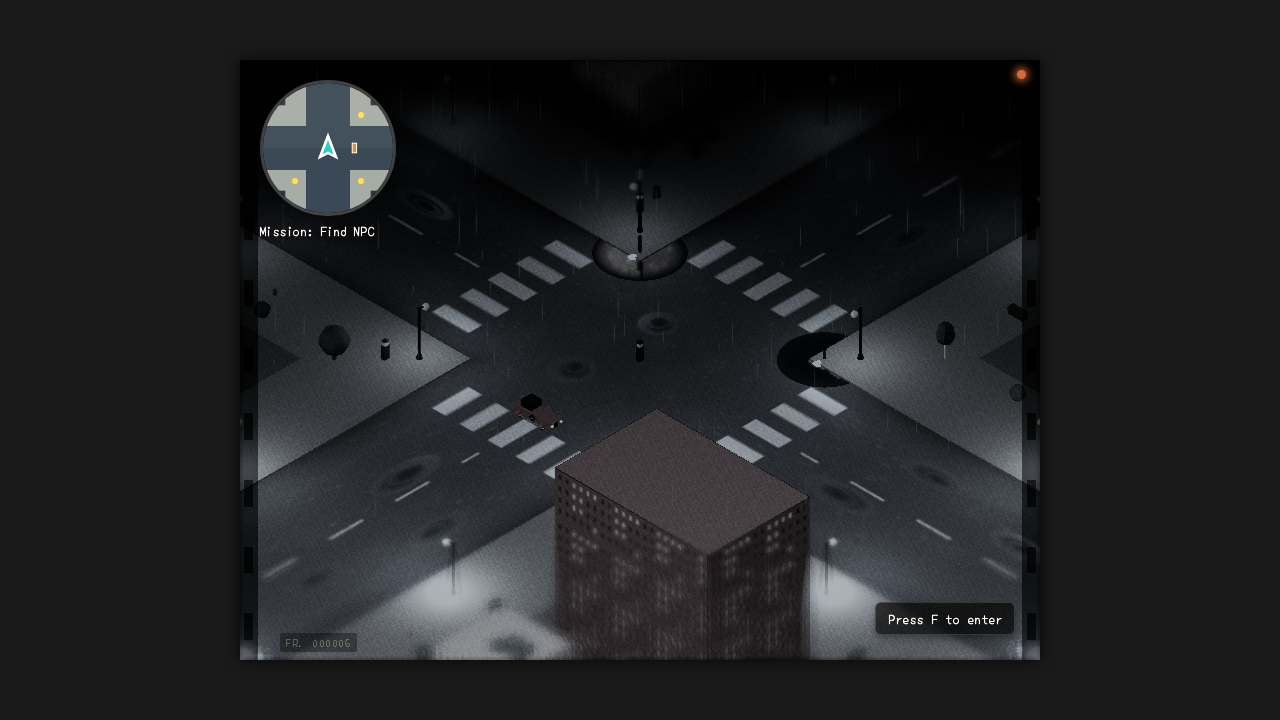
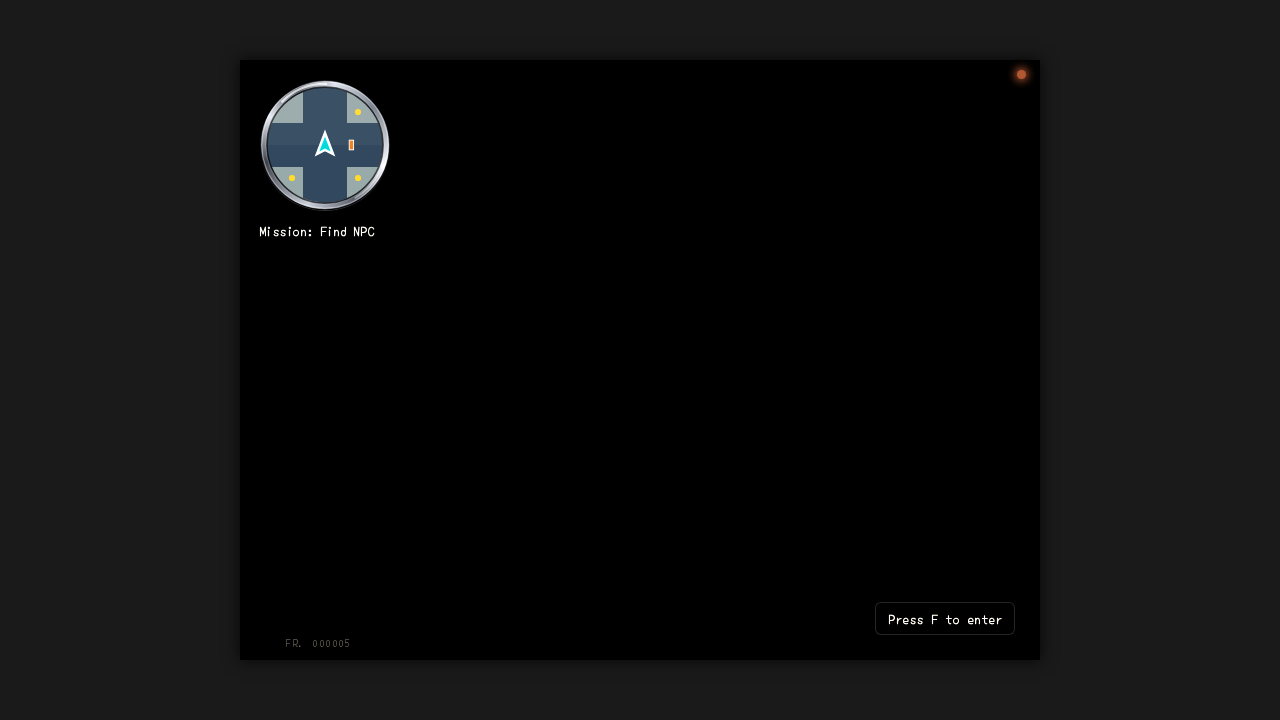
feat: update minimap design and functionality
- Refactored minimap canvas in index.html for improved structure.
- Enhanced CSS styles for the minimap to include a new bezel and shadow effects.
- Updated FilmGateOverlay to maintain visual integrity of the minimap under retro film effects.
- Implemented clipping and drawing functions for the minimap in HUD.js to prevent tile bleed and improve aesthetics.
- Adjusted tests to accommodate new minimap features and ensure functionality.

diff --git a/src/ui/MinimapBezel.js b/src/ui/MinimapBezel.js
@@ -1,0 +1,188 @@
+/**
+ * Metallic minimap bezel + convex glass lens overlay (ref look), not a 3D mesh.
+ */
+
+/** Ring thickness in canvas px (130×130 minimap). */
+export const MINIMAP_BEZEL_WIDTH = 7;
+
+/**
+ * Inner radius available for map content.
+ * @param {number} width
+ * @param {number} height
+ */
+export function minimapContentRadius(width, height) {
+    return Math.min(width, height) / 2 - MINIMAP_BEZEL_WIDTH;
+}
+
+/**
+ * Clip subsequent draws to the circular map disc (inside the bezel).
+ * @param {CanvasRenderingContext2D} ctx
+ * @param {number} cx
+ * @param {number} cy
+ * @param {number} width
+ * @param {number} height
+ */
+export function clipMinimapContent(ctx, cx, cy, width, height) {
+    const r = minimapContentRadius(width, height);
+    ctx.beginPath();
+    ctx.arc(cx, cy, r, 0, Math.PI * 2);
+    ctx.clip();
+}
+
+/**
+ * Convex glass lens over the map disc: cool tint, vignette, specular crescent.
+ * Call after map content, before the metal bezel.
+ * @param {CanvasRenderingContext2D} ctx
+ * @param {number} width
+ * @param {number} height
+ */
+export function drawMinimapGlass(ctx, width, height) {
+    const cx = width / 2;
+    const cy = height / 2;
+    const r = minimapContentRadius(width, height);
+    if (r <= 0) return;
+
+    ctx.save();
+    ctx.beginPath();
+    ctx.arc(cx, cy, r, 0, Math.PI * 2);
+    ctx.clip();
+
+    // Cool glass wash (mutes the map like looking through a lens)
+    ctx.fillStyle = 'rgba(155, 180, 205, 0.14)';
+    ctx.beginPath();
+    ctx.arc(cx, cy, r, 0, Math.PI * 2);
+    ctx.fill();
+
+    // Recessed depth — darker toward the rim / bottom
+    if (typeof ctx.createRadialGradient === 'function') {
+        const vig = ctx.createRadialGradient(cx, cy - r * 0.12, r * 0.18, cx, cy + r * 0.08, r);
+        vig.addColorStop(0, 'rgba(0, 0, 0, 0)');
+        vig.addColorStop(0.55, 'rgba(0, 0, 0, 0.04)');
+        vig.addColorStop(0.82, 'rgba(0, 0, 0, 0.18)');
+        vig.addColorStop(1, 'rgba(0, 0, 0, 0.38)');
+        ctx.fillStyle = vig;
+        ctx.beginPath();
+        ctx.arc(cx, cy, r, 0, Math.PI * 2);
+        ctx.fill();
+    }
+
+    // Convex specular crescent (top-left light catch)
+    if (typeof ctx.createRadialGradient === 'function') {
+        const gx = cx - r * 0.38;
+        const gy = cy - r * 0.48;
+        const gloss = ctx.createRadialGradient(gx, gy, 0, gx, gy, r * 0.95);
+        gloss.addColorStop(0, 'rgba(255, 255, 255, 0.42)');
+        gloss.addColorStop(0.28, 'rgba(255, 255, 255, 0.14)');
+        gloss.addColorStop(0.55, 'rgba(255, 255, 255, 0.03)');
+        gloss.addColorStop(1, 'rgba(255, 255, 255, 0)');
+        ctx.fillStyle = gloss;
+        ctx.beginPath();
+        ctx.arc(cx, cy, r, 0, Math.PI * 2);
+        ctx.fill();
+    } else {
+        ctx.fillStyle = 'rgba(255, 255, 255, 0.12)';
+        ctx.beginPath();
+        ctx.arc(cx, cy, r, Math.PI * 1.05, Math.PI * 1.85, false);
+        ctx.lineTo(cx, cy);
+        ctx.closePath();
+        ctx.fill();
+    }
+
+    // Thin inner rim highlight (glass edge under the metal)
+    ctx.beginPath();
+    ctx.arc(cx, cy, r - 1.25, 0, Math.PI * 2);
+    ctx.strokeStyle = 'rgba(220, 230, 240, 0.28)';
+    ctx.lineWidth = 1.25;
+    ctx.stroke();
+
+    ctx.beginPath();
+    ctx.arc(cx, cy, r - 0.5, 0, Math.PI * 2);
+    ctx.strokeStyle = 'rgba(0, 0, 0, 0.35)';
+    ctx.lineWidth = 1.5;
+    ctx.stroke();
+
+    ctx.restore();
+}
+
+/**
+ * Draw a brushed-metal annular ring with specular glints.
+ * @param {CanvasRenderingContext2D} ctx
+ * @param {number} width
+ * @param {number} height
+ */
+export function drawMinimapBezel(ctx, width, height) {
+    const cx = width / 2;
+    const cy = height / 2;
+    const rOuter = Math.min(width, height) / 2 - 0.5;
+    const rInner = rOuter - MINIMAP_BEZEL_WIDTH;
+    if (rInner <= 0) return;
+
+    ctx.save();
+
+    // Metal band (conic = rotating highlight like chrome)
+    ctx.beginPath();
+    ctx.arc(cx, cy, rOuter, 0, Math.PI * 2);
+    ctx.arc(cx, cy, rInner, 0, Math.PI * 2, true);
+
+    if (typeof ctx.createConicGradient === 'function') {
+        const metal = ctx.createConicGradient(-Math.PI * 0.65, cx, cy);
+        metal.addColorStop(0, '#4a4e56');
+        metal.addColorStop(0.1, '#d8dde6');
+        metal.addColorStop(0.22, '#7a808a');
+        metal.addColorStop(0.38, '#f2f4f8');
+        metal.addColorStop(0.5, '#5c616a');
+        metal.addColorStop(0.62, '#c4c9d2');
+        metal.addColorStop(0.78, '#3e424a');
+        metal.addColorStop(0.9, '#e0e4ec');
+        metal.addColorStop(1, '#4a4e56');
+        ctx.fillStyle = metal;
+    } else {
+        ctx.fillStyle = '#9aa0aa';
+    }
+    ctx.fill();
+
+    // Outer rim shadow
+    ctx.beginPath();
+    ctx.arc(cx, cy, rOuter, 0, Math.PI * 2);
+    ctx.strokeStyle = 'rgba(0, 0, 0, 0.55)';
+    ctx.lineWidth = 1.25;
+    ctx.stroke();
+
+    // Outer specular lip
+    ctx.beginPath();
+    ctx.arc(cx, cy, rOuter - 1.25, 0, Math.PI * 2);
+    ctx.strokeStyle = 'rgba(255, 255, 255, 0.4)';
+    ctx.lineWidth = 1;
+    ctx.stroke();
+
+    // Inner dark channel (separates metal from map)
+    ctx.beginPath();
+    ctx.arc(cx, cy, rInner + 0.5, 0, Math.PI * 2);
+    ctx.strokeStyle = 'rgba(0, 0, 0, 0.7)';
+    ctx.lineWidth = 1.75;
+    ctx.stroke();
+
+    // Inner cool highlight
+    ctx.beginPath();
+    ctx.arc(cx, cy, rInner + 1.75, 0, Math.PI * 2);
+    ctx.strokeStyle = 'rgba(200, 210, 225, 0.35)';
+    ctx.lineWidth = 1;
+    ctx.stroke();
+
+    // Bright chrome glints
+    const midR = (rOuter + rInner) / 2;
+    ctx.lineCap = 'round';
+    ctx.strokeStyle = 'rgba(255, 255, 255, 0.7)';
+    ctx.lineWidth = 2.25;
+    ctx.beginPath();
+    ctx.arc(cx, cy, midR, -2.35, -1.55);
+    ctx.stroke();
+
+    ctx.strokeStyle = 'rgba(255, 255, 255, 0.35)';
+    ctx.lineWidth = 1.5;
+    ctx.beginPath();
+    ctx.arc(cx, cy, midR, 0.45, 1.05);
+    ctx.stroke();
+
+    ctx.restore();
+}

diff --git a/src/ui/MinimapBezel.test.js b/src/ui/MinimapBezel.test.js
@@ -1,0 +1,76 @@
+import { describe, it, expect, vi } from 'vitest';
+import {
+    MINIMAP_BEZEL_WIDTH,
+    minimapContentRadius,
+    clipMinimapContent,
+    drawMinimapBezel,
+    drawMinimapGlass
+} from './MinimapBezel.js';
+
+function mockCtx() {
+    const grad = { addColorStop: vi.fn() };
+    return {
+        save: vi.fn(),
+        restore: vi.fn(),
+        beginPath: vi.fn(),
+        arc: vi.fn(),
+        clip: vi.fn(),
+        fill: vi.fn(),
+        stroke: vi.fn(),
+        lineTo: vi.fn(),
+        closePath: vi.fn(),
+        createConicGradient: vi.fn(() => grad),
+        createRadialGradient: vi.fn(() => grad),
+        fillStyle: '',
+        strokeStyle: '',
+        lineWidth: 0,
+        lineCap: 'butt',
+        _grad: grad
+    };
+}
+
+describe('MinimapBezel', () => {
+    it('reserves a metal ring outside the content disc', () => {
+        expect(MINIMAP_BEZEL_WIDTH).toBeGreaterThanOrEqual(6);
+        expect(minimapContentRadius(130, 130)).toBe(65 - MINIMAP_BEZEL_WIDTH);
+    });
+
+    it('clips map content to the inner disc', () => {
+        const ctx = mockCtx();
+        clipMinimapContent(ctx, 65, 65, 130, 130);
+        expect(ctx.beginPath).toHaveBeenCalled();
+        expect(ctx.arc).toHaveBeenCalledWith(65, 65, 65 - MINIMAP_BEZEL_WIDTH, 0, Math.PI * 2);
+        expect(ctx.clip).toHaveBeenCalled();
+    });
+
+    it('paints a conic metal ring with specular strokes', () => {
+        const ctx = mockCtx();
+        drawMinimapBezel(ctx, 130, 130);
+        expect(ctx.createConicGradient).toHaveBeenCalled();
+        expect(ctx._grad.addColorStop).toHaveBeenCalled();
+        expect(ctx.fill).toHaveBeenCalled();
+        expect(ctx.stroke.mock.calls.length).toBeGreaterThanOrEqual(4);
+        expect(ctx.save).toHaveBeenCalled();
+        expect(ctx.restore).toHaveBeenCalled();
+    });
+
+    it('falls back when createConicGradient is missing', () => {
+        const ctx = mockCtx();
+        delete ctx.createConicGradient;
+        drawMinimapBezel(ctx, 130, 130);
+        expect(ctx.fillStyle).toBe('#9aa0aa');
+        expect(ctx.fill).toHaveBeenCalled();
+    });
+
+    it('draws a glass lens: tint, vignette, and specular crescent', () => {
+        const ctx = mockCtx();
+        drawMinimapGlass(ctx, 130, 130);
+        expect(ctx.clip).toHaveBeenCalled();
+        expect(ctx.createRadialGradient).toHaveBeenCalled();
+        expect(ctx._grad.addColorStop).toHaveBeenCalled();
+        expect(ctx.fill.mock.calls.length).toBeGreaterThanOrEqual(3);
+        expect(ctx.stroke.mock.calls.length).toBeGreaterThanOrEqual(2);
+        expect(ctx.save).toHaveBeenCalled();
+        expect(ctx.restore).toHaveBeenCalled();
+    });
+});

diff --git a/src/ui/HUD.js b/src/ui/HUD.js
@@ -10,6 +10,7 @@ import { Tilemap, TILE_COLORS } from '../world/Tilemap.js';
 import { VehicleSystem } from '../systems/VehicleSystem.js';
 import { UISettings } from './UISettings.js';
 import { I18n } from '../i18n/I18n.js';
+import { clipMinimapContent, drawMinimapBezel, drawMinimapGlass } from './MinimapBezel.js';
 
 /** Minimap: top 20 + 130 + border ≈ 156 → mission text sits below map */
 const MISSION_TOP_PX = 162;
@@ -201,6 +202,10 @@ export const UISystem = {
 
         ctx.clearRect(0, 0, width, height);
 
+        // Map disc (clipped so tiles don't bleed under the metal ring)
+        ctx.save();
+        clipMinimapContent(ctx, cx, cy, width, height);
+
         ctx.save();
         ctx.translate(cx, cy);
         ctx.rotate(-pAngle - Math.PI / 2);
@@ -275,10 +280,9 @@ export const UISystem = {
         ctx.fill();
         ctx.stroke();
 
-        ctx.fillStyle = 'rgba(255, 255, 255, 0.04)';
-        ctx.beginPath();
-        ctx.arc(cx, cy, 65, 0, Math.PI, true);
-        ctx.closePath();
-        ctx.fill();
+        ctx.restore(); // end content clip
+
+        drawMinimapGlass(ctx, width, height);
+        drawMinimapBezel(ctx, width, height);
     }
 };

diff --git a/src/index.html b/src/index.html
@@ -23,7 +23,7 @@
         <canvas id="gameCanvas" width="800" height="600"></canvas>
         <canvas id="gameCanvas3D" width="800" height="600" style="display: none;"></canvas>
         <!-- UI outside canvas: better text performance / easier DOM management -->
-        <canvas id="minimap" width="130" height="130" style="position: absolute; top: 20px; left: 20px; border-radius: 50%; border: 3px solid rgba(255,255,255,0.25); background: rgba(0,0,0,0.65); box-shadow: 0 4px 10px rgba(0,0,0,0.5); backdrop-filter: blur(4px); z-index: 11; display: none; pointer-events: none;"></canvas>
+        <canvas id="minimap" width="130" height="130"></canvas>
         <div id="uiLayer"></div>
         <div id="menuLayer"></div>
         <div id="mobileHUD">

diff --git a/src/style.css b/src/style.css
@@ -30,11 +30,23 @@ canvas {
     background-color: #000000;
 }
 
+/* Minimap: metal ring is drawn on the canvas (MinimapBezel); CSS only frames it. */
 #minimap {
+    position: absolute;
+    top: 20px;
+    left: 20px;
     width: 130px !important;
     height: 130px !important;
-    background-color: transparent !important;
-    box-shadow: none !important;
+    border-radius: 50%;
+    border: none;
+    background: rgba(0, 0, 0, 0.72);
+    box-shadow:
+        0 1px 0 rgba(255, 255, 255, 0.18),
+        0 6px 16px rgba(0, 0, 0, 0.65),
+        0 0 0 1px rgba(0, 0, 0, 0.45);
+    z-index: 11;
+    display: none;
+    pointer-events: none;
 }
 
 #mobileHUD {

diff --git a/src/ui/HUD.test.js b/src/ui/HUD.test.js
@@ -61,11 +61,14 @@ describe('UISystem Speedometer & Minimap Logic', () => {
             strokeRect: vi.fn(),
             beginPath: vi.fn(),
             arc: vi.fn(),
+            clip: vi.fn(),
             fill: vi.fn(),
             stroke: vi.fn(),
             moveTo: vi.fn(),
             lineTo: vi.fn(),
-            closePath: vi.fn()
+            closePath: vi.fn(),
+            createConicGradient: vi.fn(() => ({ addColorStop: vi.fn() })),
+            createRadialGradient: vi.fn(() => ({ addColorStop: vi.fn() }))
         };
         mockMinimapCanvas = {
             width: 130,

diff --git a/src/ui/FilmGateOverlay.js b/src/ui/FilmGateOverlay.js
@@ -41,9 +41,12 @@ const CSS = `
     border-radius: 2px;
 }
 #gameContainer.retro-film #uiLayer,
-#gameContainer.retro-film #mobileHUD,
-#gameContainer.retro-film #minimap {
+#gameContainer.retro-film #mobileHUD {
     filter: sepia(0.22) contrast(1.04) brightness(1.0);
+}
+/* Keep minimap bezel cool/metallic — don't sepia the chrome ring */
+#gameContainer.retro-film #minimap {
+    filter: contrast(1.04) brightness(1.02);
 }
 `;
 
